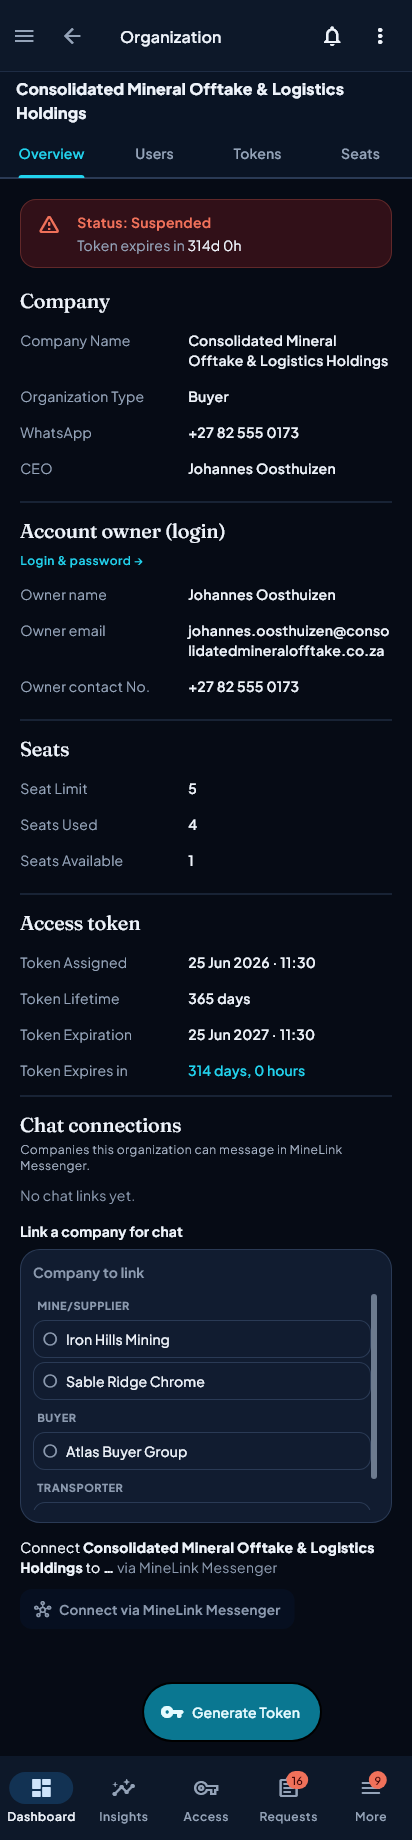
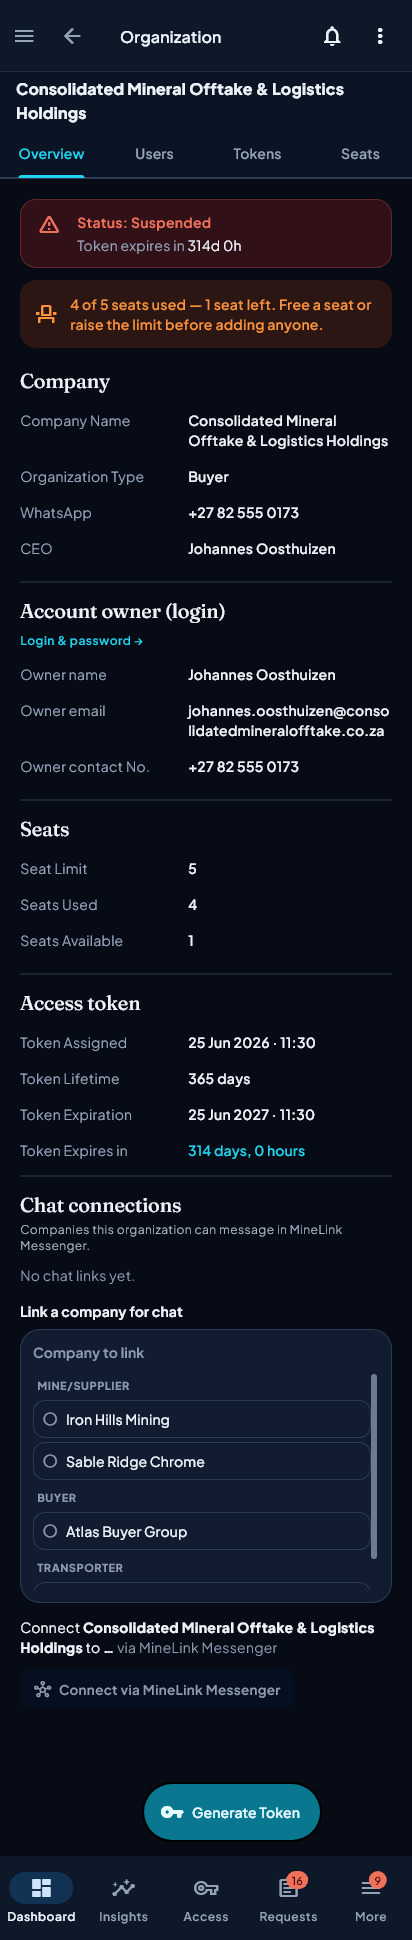
feat(admin, phone): warn when a company is running out of seats
"1 seat left" / "All seats used" on the Organizations cards, a warning on the
company page, and "Seats running out" in Needs your attention. Near = a fifth
or fewer seats left, and always the last one. Phone only.

diff --git a/lib/features/super_admin/screens/super_admin_dashboard_v2_screen.dart b/lib/features/super_admin/screens/super_admin_dashboard_v2_screen.dart
@@ -2,6 +2,7 @@ import 'package:flutter/material.dart';
 import 'package:flutter_riverpod/flutter_riverpod.dart';
 import 'package:go_router/go_router.dart';
 
+import 'package:flutter_application_1/features/super_admin/utils/seat_pressure.dart';
 import 'package:flutter_application_1/features/portal/models/recon_dispute.dart';
 import 'package:flutter_application_1/features/portal/services/dispute_service.dart';
 import 'package:flutter_application_1/core/design/shell/ml_window_class.dart';
@@ -112,6 +113,14 @@ class SuperAdminDashboardV2Screen extends ConsumerWidget {
                   openDisputes: openDisputes,
                   openWaybills:
                       bundle('transporter')?.aggregate.pendingWaybills ?? 0,
+                  seatsRunningOut: orgs
+                      .where((o) =>
+                          seatPressure(
+                            SuperAdminDashboardV2ViewModel._int(o['seats_used']),
+                            SuperAdminDashboardV2ViewModel._int(o['seat_limit']),
+                          ) !=
+                          SeatPressure.none)
+                      .length,
                 ),
           orgAggregates: vm.orgAggregates,
           pendingRequests: vm.pendingRequests,
@@ -193,6 +202,7 @@ List<MlAttentionItem> dashboardAttentionItems({
   required int buyerRequests,
   required int openDisputes,
   required int openWaybills,
+  int seatsRunningOut = 0,
 }) {
   MlAttentionItem? item(int n, String id, String label, String detail,
           IconData icon, MlChipTone tone) =>
@@ -211,6 +221,10 @@ List<MlAttentionItem> dashboardAttentionItems({
         'Waiting for approval', Icons.token_outlined, MlChipTone.amber),
     item(tokensExpiringSoon, 'attention.expiring', 'Tokens expiring',
         'Within 7 days', Icons.timer_outlined, MlChipTone.amber),
+    // 6.4: a company about to run out of seats cannot add its next person.
+    item(seatsRunningOut, 'orgs', 'Seats running out',
+        '${mlCount(seatsRunningOut, 'company', 'companies')} at or near the seat limit',
+        Icons.event_seat_outlined, MlChipTone.amber),
     item(mineTransport + buyerTransport, 'requests.mine-transport',
         'Requested routes',
         '$mineTransport from mines · $buyerTransport from buyers',

diff --git a/lib/features/super_admin/screens/organization_detail_screen.dart b/lib/features/super_admin/screens/organization_detail_screen.dart
@@ -1,3 +1,4 @@
+import 'package:flutter_application_1/features/super_admin/utils/seat_pressure.dart';
 import 'package:flutter_application_1/core/design/tokens/m3/ml_shape.dart';
 import 'dart:async';
 
@@ -510,6 +511,42 @@ class _OverviewTab extends ConsumerWidget {
                       ),
                       ],
                       ),
+                    ),
+                  );
+                }),
+              // 6.4, on a phone: say so before the company runs out of seats.
+              if (MlWindowClass.of(context).usesBottomNav)
+                Builder(builder: (context) {
+                  final used = (org['seats_used'] as num?)?.toInt() ?? 0;
+                  final limit = (org['seat_limit'] as num?)?.toInt() ?? 0;
+                  final warn = seatPressureLabel(used, limit);
+                  if (warn == null) return const SizedBox.shrink();
+                  final tone = (seatPressure(used, limit) == SeatPressure.near
+                          ? MlTone.warn
+                          : MlTone.error)
+                      .colors(Theme.of(context).brightness);
+                  return Container(
+                    margin: const EdgeInsets.only(top: 12),
+                    padding: const EdgeInsets.all(14),
+                    decoration: BoxDecoration(
+                      color: tone.bg,
+                      borderRadius: BorderRadius.circular(MlTokens.rLg),
+                    ),
+                    child: Row(
+                      children: [
+                        Icon(Icons.event_seat_outlined, color: tone.fg),
+                        const SizedBox(width: 12),
+                        Expanded(
+                          child: Text(
+                            '$used of $limit seats used — $warn. Free a seat '
+                            'or raise the limit before adding anyone.',
+                            style: context.mlText.bodyMedium.copyWith(
+                              color: tone.fg,
+                              fontWeight: FontWeight.w600,
+                            ),
+                          ),
+                        ),
+                      ],
                     ),
                   );
                 }),

diff --git a/lib/features/super_admin/utils/seat_pressure.dart b/lib/features/super_admin/utils/seat_pressure.dart
@@ -1,0 +1,36 @@
+/// How close a company is to its seat limit (admin phone audit, 2026-10-24:
+/// "a seat warning when a company nears its limit").
+///
+/// Seats now count people (the 2026-10-24 seat fix), so this is read straight
+/// off `seats_used` / `seat_limit`.
+enum SeatPressure { none, near, full, over }
+
+/// [SeatPressure] for [used] of [limit].
+///
+/// Near means at most a fifth of the seats are left \u2014 and always when only
+/// one is: 8 of 10, 4 of 5, 1 of 2. A company with no limit set (0) is never
+/// warned about; there is nothing to run out of.
+SeatPressure seatPressure(int used, int limit) {
+  if (limit <= 0) return SeatPressure.none;
+  final left = limit - used;
+  if (left < 0) return SeatPressure.over;
+  if (left == 0) return SeatPressure.full;
+  final nearAt = (limit / 5).ceil().clamp(1, limit);
+  return left <= nearAt ? SeatPressure.near : SeatPressure.none;
+}
+
+/// The words for it, or null when there is nothing to say.
+String? seatPressureLabel(int used, int limit) {
+  switch (seatPressure(used, limit)) {
+    case SeatPressure.none:
+      return null;
+    case SeatPressure.near:
+      final left = limit - used;
+      return left == 1 ? '1 seat left' : '$left seats left';
+    case SeatPressure.full:
+      return 'All seats used';
+    case SeatPressure.over:
+      final over = used - limit;
+      return over == 1 ? '1 person over the limit' : '$over people over the limit';
+  }
+}

diff --git a/test/features/super_admin/seat_pressure_test.dart b/test/features/super_admin/seat_pressure_test.dart
@@ -1,0 +1,32 @@
+import 'package:flutter_test/flutter_test.dart';
+
+import 'package:flutter_application_1/features/super_admin/utils/seat_pressure.dart';
+
+void main() {
+  test('near: a fifth or less left, and always the last seat', () {
+    expect(seatPressure(7, 10), SeatPressure.none);
+    expect(seatPressure(8, 10), SeatPressure.near);
+    expect(seatPressure(3, 5), SeatPressure.none);
+    expect(seatPressure(4, 5), SeatPressure.near);
+    expect(seatPressure(1, 2), SeatPressure.near);
+    expect(seatPressure(0, 1), SeatPressure.near, reason: 'one seat, none used: one left');
+  });
+
+  test('full and over', () {
+    expect(seatPressure(10, 10), SeatPressure.full);
+    expect(seatPressure(11, 10), SeatPressure.over);
+  });
+
+  test('no limit set is never a warning', () {
+    expect(seatPressure(5, 0), SeatPressure.none);
+    expect(seatPressureLabel(5, 0), isNull);
+  });
+
+  test('the words', () {
+    expect(seatPressureLabel(4, 5), '1 seat left');
+    expect(seatPressureLabel(8, 10), '2 seats left');
+    expect(seatPressureLabel(10, 10), 'All seats used');
+    expect(seatPressureLabel(12, 10), '2 people over the limit');
+    expect(seatPressureLabel(4, 10), isNull);
+  });
+}

diff --git a/lib/features/super_admin/screens/organization_management_screen.dart b/lib/features/super_admin/screens/organization_management_screen.dart
@@ -1,3 +1,4 @@
+import 'package:flutter_application_1/features/super_admin/utils/seat_pressure.dart';
 import 'package:flutter_application_1/core/design/tokens/m3/ml_shape.dart';
 import 'package:flutter/material.dart';
 import 'package:flutter_riverpod/flutter_riverpod.dart';
@@ -682,6 +683,15 @@ class _OrganizationManagementScreenState
                           weight: FontWeight.w700,
                         ),
                       ),
+                      // Running out (6.4): "1 seat left", "All seats used".
+                      if (seatPressureLabel(seatsUsed, seatLimit) case final warn?)
+                        MlStatusBadge(
+                          label: warn,
+                          tone: seatPressure(seatsUsed, seatLimit) ==
+                                  SeatPressure.near
+                              ? MlTone.warn
+                              : MlTone.error,
+                        ),
                     ],
                   ),
                   const SizedBox(height: 6),

diff --git a/test/features/super_admin/attention_list_test.dart b/test/features/super_admin/attention_list_test.dart
@@ -91,4 +91,15 @@ void main() {
     expect(find.text('Needs your attention'), findsNothing);
     expect(find.text('Pending requests'), findsOneWidget);
   });
+
+  test('companies at or near their seat limit are listed (6.4)', () {
+    final items = dashboardAttentionItems(
+      expiredCompanies: 0, tokensExpiringSoon: 0, openTokenRequests: 0,
+      mineTransport: 0, buyerTransport: 0, productRequests: 0,
+      buyerRequests: 0, openDisputes: 0, openWaybills: 0, seatsRunningOut: 2,
+    );
+    expect(items.single.label, 'Seats running out');
+    expect(items.single.detail, '2 companies at or near the seat limit');
+    expect(dashboardNavRoute(items.single.id), '/super-admin/organizations');
+  });
 }

diff --git a/test/renders/redesign_renders_test.dart b/test/renders/redesign_renders_test.dart
@@ -3096,8 +3096,9 @@ void main() {
         // The whole page. A frame shorter than the page leaves its last
         // control under the floating Generate Token button in the picture,
         // where a phone would simply scroll it clear (2026-10-24: the phone
-        // header changed height and 1755 stopped being enough).
-        const Size(412, 1840),
+        // header changed height and 1755 stopped being enough; 1940 since the
+        // phone's seat warning, 6.4).
+        const Size(412, 1940),
         'screen-organization-detail-phone-dark',
       );
     });

diff --git a/ADMIN-MOBILE-TODO.md b/ADMIN-MOBILE-TODO.md
@@ -458,7 +458,19 @@ Status: ☐ not started · ◐ in progress · ☑ done
     one heartbeat → 1; its body counts `last_seen_at`. The dashboard
     re-reads it every minute (3.6) — `dashboard_stats_refresh_test` green.
     On-device heartbeat check stays in 7.3.
-- [ ] 6.4 Seat warning when a company nears its limit.
+- [x] 6.4 Seat warning when a company nears its limit.
+  - Rule (`seat_pressure.dart`): near = a fifth or fewer seats left, and
+    always the last seat (8/10, 4/5, 1/2); full; over. No limit set → never
+    warned. Seats count people since the seat fix, so it reads
+    seats_used / seat_limit directly.
+  - On a phone: Organizations cards carry "1 SEAT LEFT" (amber) / "ALL SEATS
+    USED" or "N PEOPLE OVER THE LIMIT" (red); the company page shows "4 of 5
+    seats used — 1 seat left. Free a seat or raise the limit before adding
+    anyone."; Needs your attention lists "Seats running out — N companies".
+    Desktop unchanged.
+  - `seat_pressure_test.dart` 4/4; attention test 7/7; three phone goldens
+    updated and viewed (company page frame 1940 so its last control is not
+    under Generate Token in the picture). Full suite 2,834 passed.
 - [ ] 6.5 Chat behaves like a page: Back closes it, docks out of the way of
       buttons (1.2 + 4.4 + 5.3 — tick when all three are ticked and re-checked).
 
